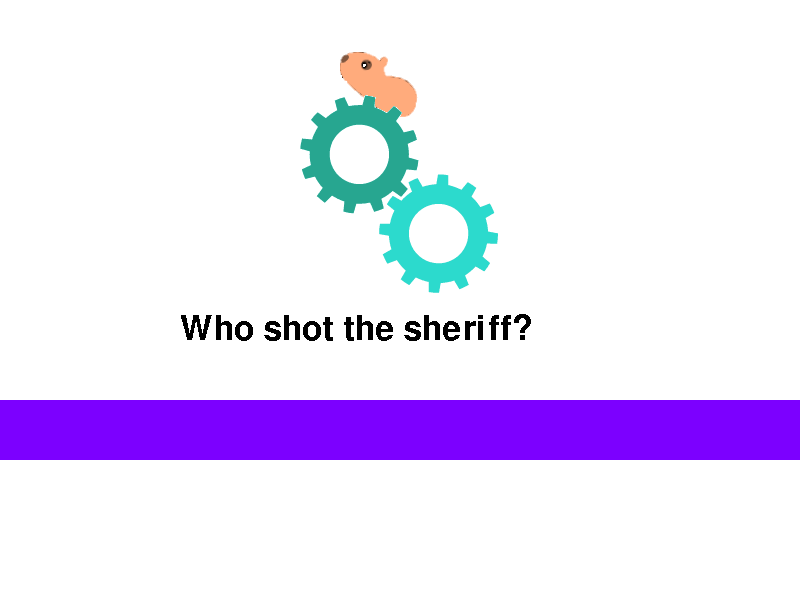
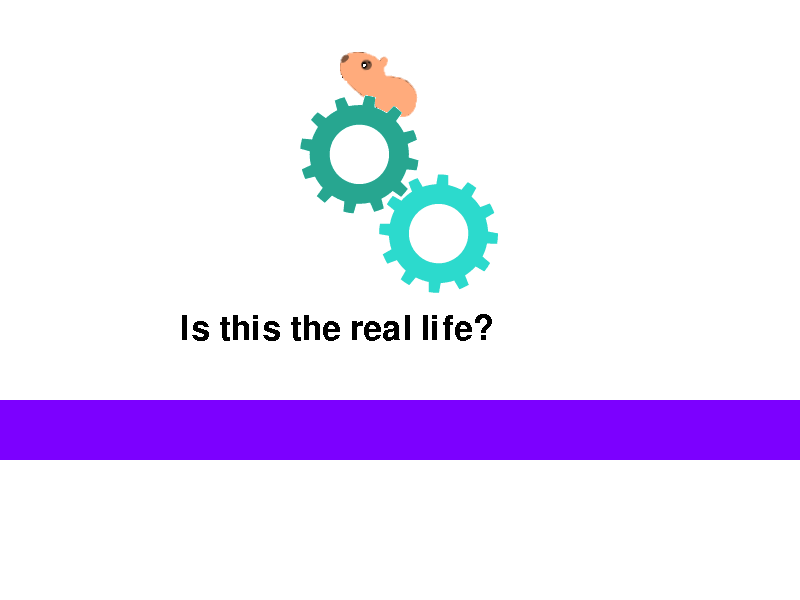
none

Changed region(s): [[0.2188, 0.51, 0.6562, 0.57]]

diff --git a/Server/Kahoot.py b/Server/Kahoot.py
@@ -114,10 +114,10 @@ def main():
     Server.ServerDitection.finish = True
     #if not done:
     #    done = add_question(screen, 5, "The correct answer is number 2", ["1", "2", "3", "4"], 2, None, 10, 1000)
-    if not done:
-            done = add_question(screen, 5, "Who shot the sheriff?", ["I shot the sheriff", "but I did not shoot the deputy", "It was santa!", "Chuck Norris did it!"], 1, None, 10, 800)
     #if not done:
-    #    done = add_question(screen, 5, "Is this the real life?", ["It's just a fantasy.", "Caught in a landslide", "No escape from reality", "Open your eyes"], 4, None, 10, 800)
+    #        done = add_question(screen, 5, "Who shot the sheriff?", ["I shot the sheriff", "but I did not shoot the deputy", "It was santa!", "Chuck Norris did it!"], 1, None, 10, 800)
+    if not done:
+        done = add_question(screen, 5, "Is this the real life?", ["It's just a fantasy.", "Caught in a landslide", "No escape from reality", "Open your eyes"], 4, None, 10, 800)
 
     if not done:
         Server.end_game()
@@ -298,10 +298,9 @@ def show_answer(screen, res, correct_answer, question):
 
     finish = False
     pygame.mixer.music.set_volume(1)
+    time.sleep(0.05)
     pygame.mixer.music.load(OST_DIR + "answers.mp3")
-    pygame.mixer.music.play(-1)
-    time.sleep(0.5)
-    pygame.mixer.music.fadeout(600)
+    pygame.mixer.music.play(1)
     last = time.time()
     while not finish:
         Server.receive()

diff --git a/Server/files/Server.py b/Server/files/Server.py
@@ -198,7 +198,8 @@ def results(correct_answer, score):
                 player.answer = None
             __players.sort(key=lambda x: x.score, reverse=True)
             return answers
-        return [12, 4, 1, 6]
+        import random
+        return [random.randint(0, 20) for x in range(4)]
     except Exception:
         _error()
         return [0, 0, 0, 0]
